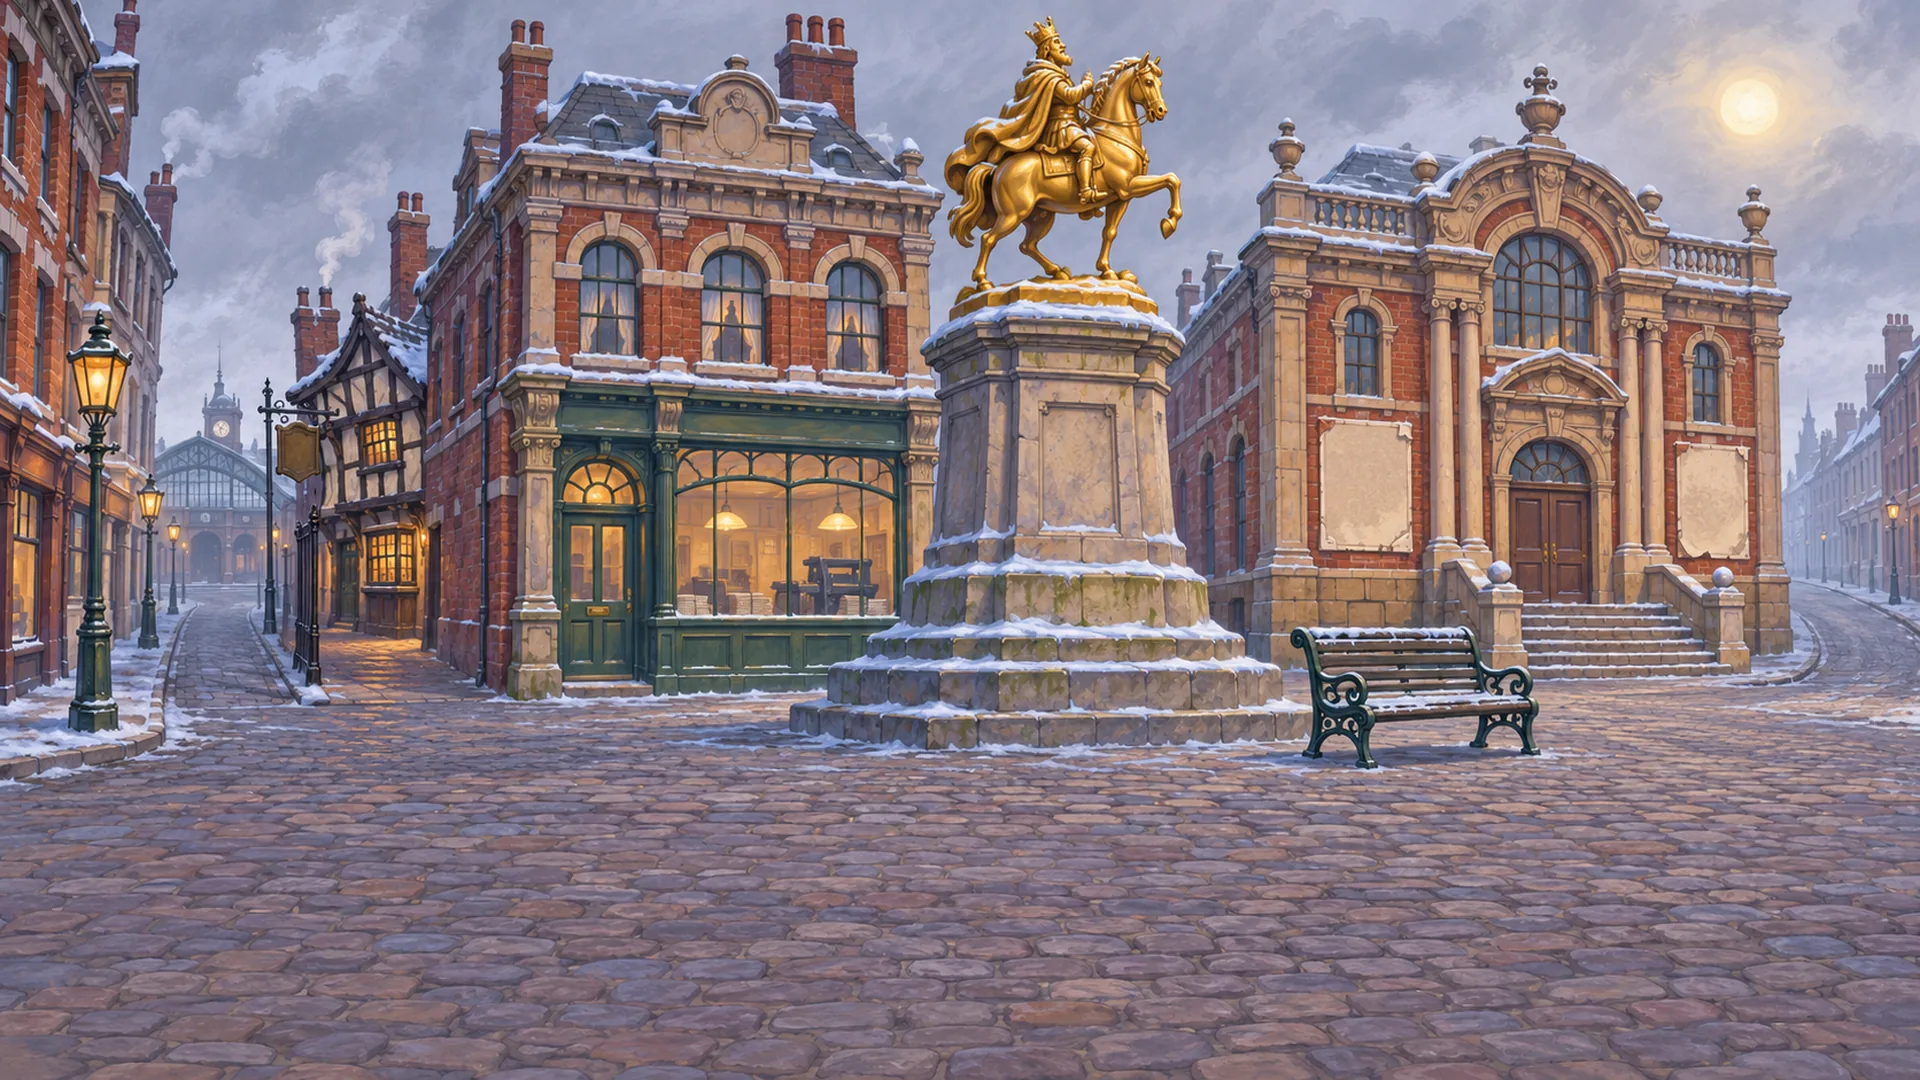
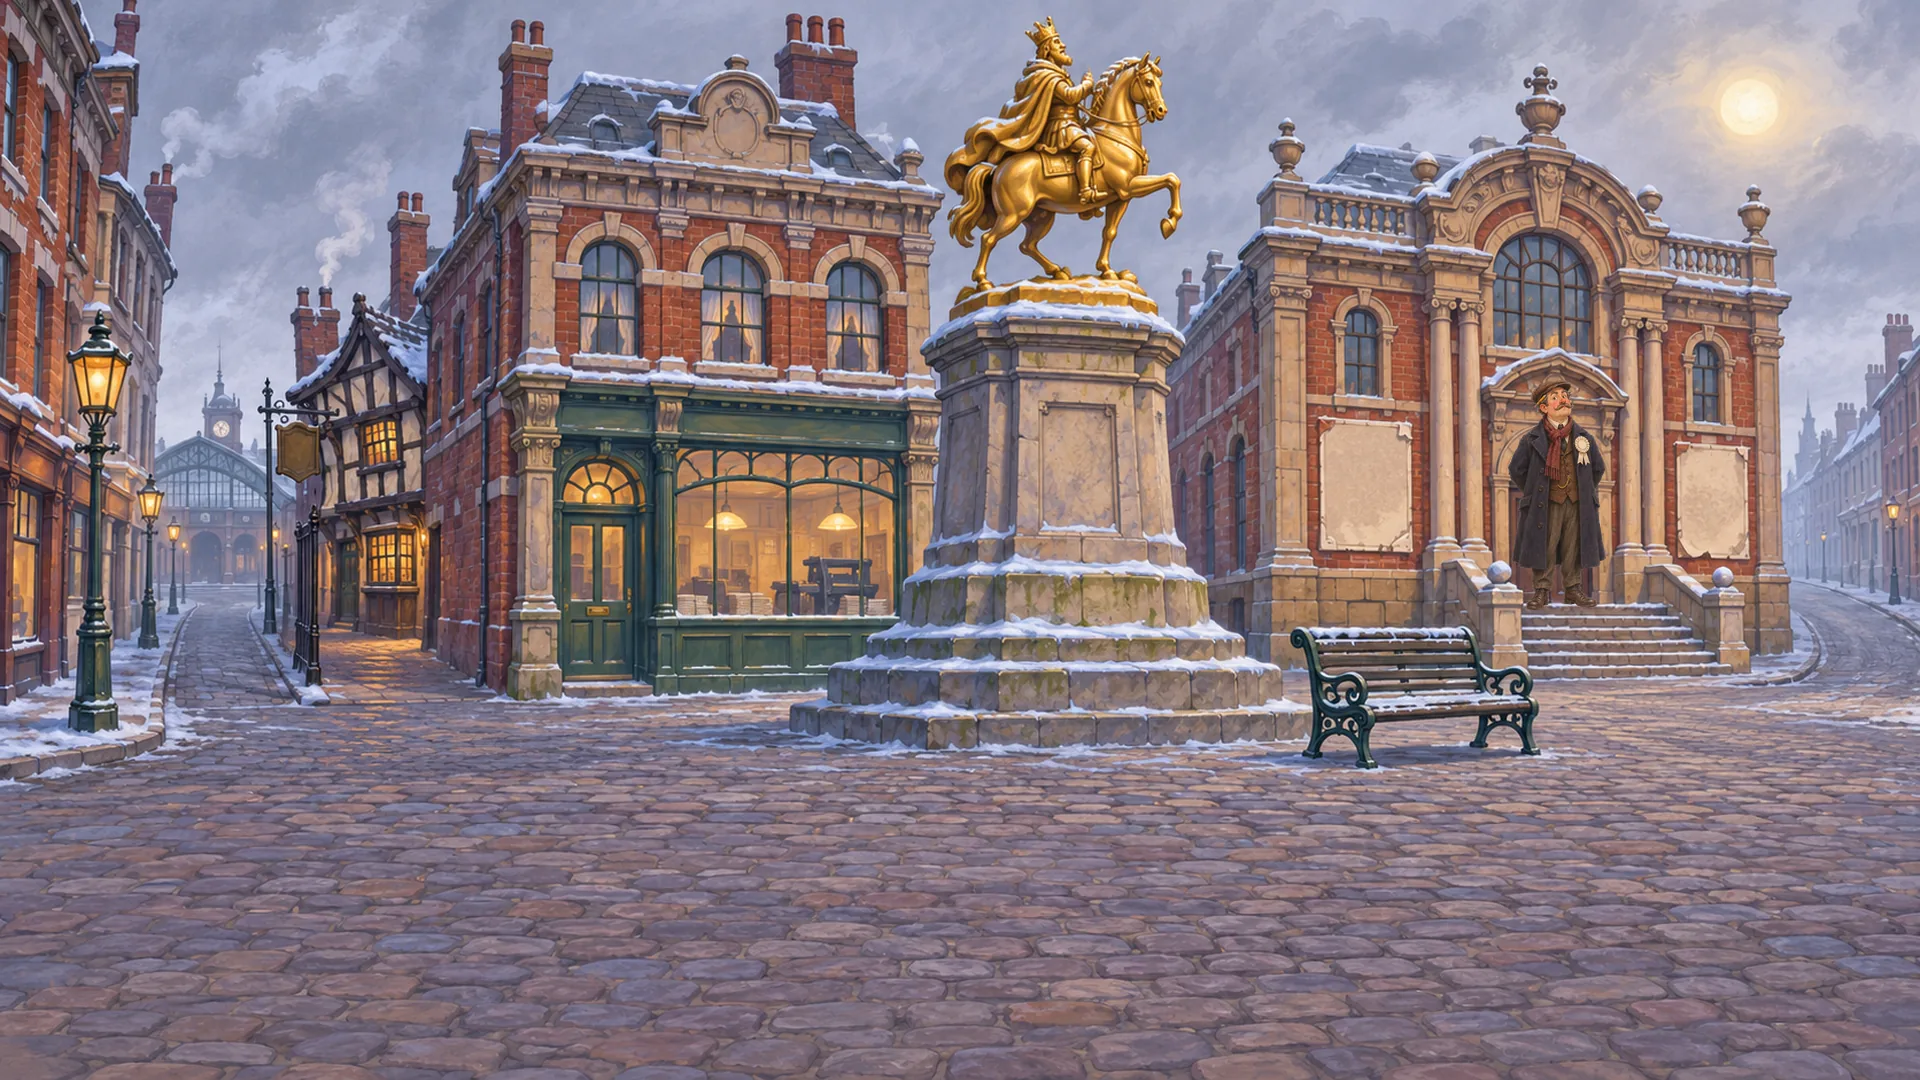
Three Brothers: Chapter 3 people and props
Adds Rob's 10 cut-outs for Chapter 3: 8 placed as sprites, scaled and
lined up with the paintings, and 2 who never move painted straight into
their backgrounds. Speech positions updated to match. The editor is the
one picture still to come.

Claude-Session: https://claude.ai/code/session_01HkYj1sXuKgB5KPCMdU7EVc

Changed region(s): [[0.7812, 0.3361, 0.8438, 0.5806]]

diff --git a/games/three-brothers/chapters/03-hull.ts b/games/three-brothers/chapters/03-hull.ts
@@ -114,13 +114,13 @@ export const hull: Chapter = {
     inventory: { rob: ['phone', 'dollies'] },
   },
   extras: {
-    reader: { name: 'Woman on the bench', colour: '#f08fb0', at: { x: 640, y: 200 } },
-    steward: { name: 'Steward', colour: '#f4d35e', at: { x: 850, y: 150 } },
-    landlord: { name: 'Landlord', colour: '#e8a33d', at: { x: 410, y: 150 } },
-    editor: { name: 'Editor', colour: '#7fb8d9', at: { x: 455, y: 150 } },
-    gateman: { name: 'Gateman', colour: '#a0d9a0', at: { x: 210, y: 130 } },
-    boy: { name: 'Boy', colour: '#f2cc2f', at: { x: 790, y: 230 } },
-    clerk: { name: 'Ticket clerk', colour: '#c9a0dc', at: { x: 265, y: 110 } },
+    reader: { name: 'Woman on the bench', colour: '#f08fb0', at: { x: 702, y: 247 } },
+    steward: { name: 'Steward', colour: '#f4d35e', at: { x: 778, y: 165 } },
+    landlord: { name: 'Landlord', colour: '#e8a33d', at: { x: 505, y: 230 } },
+    editor: { name: 'Editor', colour: '#7fb8d9', at: { x: 737, y: 190 } },
+    gateman: { name: 'Gateman', colour: '#a0d9a0', at: { x: 245, y: 227 } },
+    boy: { name: 'Boy', colour: '#f2cc2f', at: { x: 807, y: 273 } },
+    clerk: { name: 'Ticket clerk', colour: '#c9a0dc', at: { x: 276, y: 240 } },
     guard: { name: 'Guard', colour: '#c9bfae', at: { x: 760, y: 110 } },
   },
   intro: [
@@ -215,9 +215,9 @@ export const hull: Chapter = {
         { id: 'wreck', name: 'Wrecked soapbox', if: '!got_wreck', prop: 'soapbox', rect: { x: 260, y: 350, w: 120, h: 60 }, colour: '#7a5a3a', look: "My soapbox. What's left of it. We've been through a lot together, that box and me. Mostly council meetings." },
         { id: 'statue', name: 'King William statue', rect: { x: 465, y: 5, w: 175, h: 365 }, colour: '#d9b53a', look: 'King Billy, gilded from crown to hoof, on a golden horse. Somebody has polished him this morning. In January.' },
         { id: 'to_office', name: 'Hull Daily Mail office', exit: 'up', rect: { x: 265, y: 190, w: 200, h: 155 }, colour: '#4a4a5a', look: 'The offices of the Hull Daily Mail. A sign in the window: CORRESPONDENTS WANTED. Bring your own pencil.' },
-        { id: 'reader', name: 'Woman on the bench', if: '!got_book', sprite: 'reader.png', rect: { x: 665, y: 255, w: 75, h: 120 }, colour: '#7a3a5a', look: "A woman reading on a bench, in this cold, so gripped that she hasn't noticed her tea has gone cold. Dracula, the yellow cover. About two-thirds in. I'm trying very hard not to say anything." },
-        { id: 'bicycle', name: 'Bicycle', if: '!bike_moved', sprite: 'bicycle.png', rect: { x: 775, y: 325, w: 95, h: 65 }, colour: '#3f7a6a', look: 'A bicycle, parked across the whole pavement. Even in 1906.' },
-        { id: 'hall', name: 'Liberal hall', rect: { x: 600, y: 35, w: 300, h: 218 }, colour: '#a08a4a', look: 'The Liberal hall, with a poster: MR LLOYD GEORGE SPEAKS TONIGHT, 8 O\'CLOCK. A steward is guarding the door like it is the last seat on earth.' },
+        { id: 'reader', name: 'Woman on the bench', if: '!got_book', sprite: 'reader.png', rect: { x: 672, y: 272, w: 61, h: 110 }, colour: '#7a3a5a', look: "A woman reading on a bench, in this cold, so gripped that she hasn't noticed her tea has gone cold. Dracula, the yellow cover. About two-thirds in. I'm trying very hard not to say anything." },
+        { id: 'bicycle', name: 'Bicycle', if: '!bike_moved', sprite: 'bicycle.png', rect: { x: 770, y: 316, w: 125, h: 77 }, colour: '#3f7a6a', look: 'A bicycle, parked across the whole pavement. Even in 1906.' },
+        { id: 'hall', name: 'Liberal hall', rect: { x: 600, y: 35, w: 300, h: 235 }, colour: '#a08a4a', look: 'The Liberal hall, with a poster: MR LLOYD GEORGE SPEAKS TONIGHT, 8 O\'CLOCK. A steward is guarding the door like it is the last seat on earth.' },
         { id: 'to_boulevard', name: 'Hessle Road', exit: 'right', rect: { x: 895, y: 200, w: 65, h: 180 }, colour: '#8a8a70', look: 'The road out along Hessle Road, towards the football ground. You can hear the crowd from here.' },
       ],
       stand: { rob: [{ x: 560, y: 440 }] },
@@ -231,9 +231,9 @@ export const hull: Chapter = {
       hotspots: [
         { id: 'pub_door', name: 'Market Place', exit: 'left', rect: { x: 0, y: 120, w: 105, h: 290 }, colour: '#8a7a60', look: 'The way back out to the cold.' },
         { id: 'photo', name: 'Team photograph', rect: { x: 160, y: 128, w: 110, h: 100 }, colour: '#b0a080', look: 'Hull City, this season, arms folded. Names underneath, if anybody cares to read them out. I care to.' },
-        { id: 'landlord', name: 'Landlord', sprite: 'landlord.png', rect: { x: 470, y: 215, w: 72, h: 190 }, colour: '#5a3a2a', look: "The landlord, polishing a glass he hasn't got anything to put in." },
+        { id: 'landlord', name: 'Landlord', sprite: 'landlord.png', rect: { x: 460, y: 255, w: 89, h: 150 }, colour: '#5a3a2a', look: "The landlord, polishing a glass he hasn't got anything to put in." },
         { id: 'trapdoor', name: 'Trapdoor', if: '!trapdoor_open', rect: { x: 675, y: 340, w: 175, h: 78 }, colour: '#4a3a28', look: 'A trapdoor to the cellar. The iron ring has snapped clean off. All that\'s left is a hairline crack round the edge.' },
-        { id: 'to_cellar', name: 'Open trapdoor', exit: 'down', if: 'trapdoor_open', sprite: 'trapdoor-open.png', rect: { x: 675, y: 340, w: 175, h: 78 }, colour: '#1a1410', look: 'Stone steps going down into the dark.' },
+        { id: 'to_cellar', name: 'Open trapdoor', exit: 'down', if: 'trapdoor_open', sprite: 'trapdoor-open.png', rect: { x: 675, y: 254, w: 279, h: 160 }, colour: '#1a1410', look: 'Stone steps going down into the dark.' },
         { id: 'parlour', name: 'Plotting Parlour', rect: { x: 805, y: 85, w: 150, h: 255 }, colour: '#6a4a3a', look: "A low door with a painted sign: THE PLOTTING PARLOUR. 1642. I stand up straight to read it. In here, that's a mistake." },
       ],
       stand: { rob: [{ x: 300, y: 440 }] },
@@ -248,7 +248,7 @@ export const hull: Chapter = {
         { id: 'dark', name: 'The dark', if: '!lit', sprite: 'cellar-dark.png', rect: { x: 150, y: 0, w: 810, h: 456 }, colour: '#050404', look: "Black. Properly black. Like the inside of a goalkeeper's glove." },
         { id: 'barrel', name: 'Fallen barrel', if: 'lit !barrel_moved', sprite: 'cellar-barrel.webp', rect: { x: 205, y: 151, w: 368, h: 291 }, colour: '#6a4a2a', look: 'A full barrel of beer, off its rack and lying right across the floor. Eighteen gallons. You could get it back up there with a block and tackle and three men.' },
         { id: 'racks', name: 'Barrel racks', if: 'lit', rect: { x: 645, y: 60, w: 280, h: 300 }, colour: '#5a4030', look: 'Racks of barrels, all full, all out of reach of a thirsty town. Well. Out of reach of most people.' },
-        { id: 'cat', name: 'Cat', if: 'lit', sprite: 'hull-cat.png', rect: { x: 845, y: 228, w: 62, h: 70 }, colour: '#222222', look: 'A large black cat, sitting on an empty barrel, looking at me as if I owe it money.' },
+        { id: 'cat', name: 'Cat', if: 'lit', sprite: 'hull-cat.png', rect: { x: 867, y: 234, w: 36, h: 62 }, colour: '#222222', look: 'A large black cat, sitting on an empty barrel, looking at me as if I owe it money.' },
         { id: 'cobwebs', name: 'Cobwebs', if: 'lit', rect: { x: 120, y: 0, w: 210, h: 150 }, colour: '#7a7a7a', look: 'Cobwebs. A lot of them. Some of them are older than the pub.' },
       ],
       stand: { rob: [{ x: 220, y: 440 }] },
@@ -274,10 +274,10 @@ export const hull: Chapter = {
       placeholder: { top: '#8aa0b0', bottom: '#5a5048' },
       hotspots: [
         { id: 'boulevard_back', name: 'Market Place', exit: 'left', rect: { x: 0, y: 200, w: 105, h: 200 }, colour: '#8a8a70', look: 'Back to the Market Place.' },
-        { id: 'gateman', name: 'Gateman', sprite: 'gateman.png', rect: { x: 200, y: 180, w: 90, h: 210 }, colour: '#3a5a3a', look: "A gateman with a cash box and a face that's heard every excuse." },
+        { id: 'gateman', name: 'Gateman', sprite: 'gateman.png', rect: { x: 214, y: 252, w: 61, h: 140 }, colour: '#3a5a3a', look: "A gateman with a cash box and a face that's heard every excuse." },
         { id: 'wall', name: 'Wall', rect: { x: 340, y: 190, w: 530, h: 180 }, colour: '#8a4a3a', look: 'A brick wall, about six foot high, with broken glass set all along the top. On the other side, the match. You can hear every tackle.' },
-        { id: 'plank_on_wall', name: 'Plank on the wall', if: 'plank_on_wall', sprite: 'plank.png', rect: { x: 440, y: 196, w: 180, h: 22 }, colour: '#a07a4a', look: 'My good plank, laid along the glass on top of the wall.' },
-        { id: 'boy', name: 'Boy', sprite: 'boy.png', rect: { x: 780, y: 270, w: 55, h: 125 }, colour: '#6a5a2a', look: 'A small boy with a scarf, scraped knees and the air of someone who knows everything about everything.' },
+        { id: 'plank_on_wall', name: 'Plank on the wall', if: 'plank_on_wall', sprite: 'plank.png', rect: { x: 420, y: 190, w: 230, h: 19 }, colour: '#a07a4a', look: 'My good plank, laid along the glass on top of the wall.' },
+        { id: 'boy', name: 'Boy', sprite: 'boy.png', rect: { x: 789, y: 298, w: 36, h: 98 }, colour: '#6a5a2a', look: 'A small boy with a scarf, scraped knees and the air of someone who knows everything about everything.' },
       ],
       stand: { rob: [{ x: 560, y: 440 }] },
     },

diff --git a/docs/three-brothers/art-style.md b/docs/three-brothers/art-style.md
@@ -36,14 +36,14 @@ Add the scene description under the master prompt. Spell out the layout (what go
   - **`goodmanham-river.webp`:** a slow, quiet river between reeds and willows. Far left: a muddy track leading up out of frame. Left: a big weeping willow trailing into the water. Centre: the river running across the middle of the picture, with a tall plain wooden cross stuck in the near bank. Right: tall reed beds, with a grey heron standing among them. Grassy, muddy riverbank along the bottom third.
   - **People and animals, as separate cut-outs** (same chat, full body, plain light grey background, like the brothers, in Anglo-Saxon dress of the 600s): a thin young shepherd lad holding a crook, with a sling tucked in his belt (`ecca.png`); an old wise woman in a dark hooded cloak with bright eyes and bone charms (`gytha.png`); a black cat, curled up (`cat.png`); a huge bearded door-ward leaning on an axe (`wulf.png`); a big red-faced cook with forearms like hams (`cook.png`); a wiry groom with straw in his hair (`groom.png`); King Edwin, seated, gold arm rings and a gold belt (`edwin.png`); Queen Æthelburh, holding a big gold cup (`queen.png`); a white-bearded old counsellor with a drinking horn (`osric.png`); Coifi, a pagan high priest in plain robes, unarmed (`coifi.png`); Paulinus, a tall, thin Roman missionary with a hooked nose, in dark robes, wet to the knee (`paulinus.png`); a big black stallion (`stallion.png`); a small grey mare (`mare.png`). Until a cut-out exists, the game draws a labelled box where that person or animal stands.
 
-- **Chapter 3, Hull, January 1906 (backgrounds done, by Rob in ChatGPT; people and props to do).** Six backgrounds, a freezing grey winter day, low pale sun, breath in the air. Each prompt describes the scene as Rob first finds it. No people, no text, all signs blank.
+- **Chapter 3, Hull, January 1906 (done by Rob in ChatGPT, except the editor).** Six backgrounds, a freezing grey winter day, low pale sun, breath in the air. Each prompt describes the scene as Rob first finds it. No people, no text, all signs blank.
   - **`hull-market.webp`:** Hull's old Market Place. Far left: a street leading off towards a railway station. Left: a narrow alley with a crooked old timber-framed pub at the end of it. Centre, high up: a gilded statue of a king on a golden horse on a tall plinth. Centre, below it: a newspaper office with a big plate-glass window. Centre-right: an empty iron bench. Right: a public hall with blank posters on its walls and steps up to the door. Far right: a road leading away out of town. Cobbles along the bottom third.
   - **`hull-pub.webp`:** inside a very old, crooked pub: low black beams, a low doorway, a small fire. Far left: the door out. Left, on the wall: a framed photograph of a football team, too small to read. Centre: a bar with beer pumps. Right of the bar, in the floorboards: a wooden trapdoor with no ring. Far right: a low door to a back room with a blank painted sign above it. Floorboards along the bottom.
   - **`hull-cellar.webp`:** a stone pub cellar, seen in the glow of one light. Far left: stone steps going up. Centre: one big wooden beer barrel lying on its side across the floor. Right: wooden racks of barrels against the wall. Top left: heavy cobwebs. Far right, low down: an empty barrel. Stone floor along the bottom. (The game covers it in darkness at first.)
   - **`hull-office.webp`:** an Edwardian newsroom, smoky and lamplit. Far left: the door out. Left of centre: a metal spike on a desk, stacked with paper. Centre: a big desk with a green lamp and piles of copy, and an empty chair. Right: a wide internal window onto big printing presses. Wooden floor along the bottom.
   - **`hull-boulevard.webp`:** outside an early football ground in winter. Far left: the road back to town. Left: a wooden turnstile gate in the wall. Centre and right: a long brick wall about head height, with broken glass set along the top, and the tops of a crowded stand visible beyond it. Far right: a lamp post. Pavement along the bottom third.
   - **`hull-station.webp`:** a huge arched Edwardian railway station roof, full of steam and pale light. Far left: the way out. Left: a ticket window with a brass grille. Centre: a big board of fares with blank lettering. Right: a big green steam engine and carriages at the platform. Platform along the bottom third.
-  - Claude touched up one background so it fits the game, and cut 2 overlays from it. The people and props below are already wired up in the chapter, showing as labelled boxes until their pictures land in `art/`.
+  - Claude touched up one background so it fits the game, and cut 2 overlays from it. The people and props below are in, except `editor.png`, which shows as a labelled box until it lands in `art/`. The steward and the clerk never move, so they're painted into their backgrounds rather than drawn as separate pictures.
   - **People, as separate cut-outs** (full body, plain light grey background, like the brothers, in Edwardian winter clothes): a woman in a shawl and hat sitting reading a yellow book (`reader.png`); a gruff pub landlord in an apron (`landlord.png`); a newspaper editor in shirtsleeves and waistcoat with a pencil (`editor.png`); a gateman with a cash box (`gateman.png`); a small boy in a big cap and scarf (`boy.png`); a steward with a rosette and a pencil behind his ear (`steward.png`); a railway ticket clerk in a cap (`clerk.png`); a large black cat sitting (`hull-cat.png`).
   - **Props** (plain light grey background): a black bicycle leaning (`bicycle.png`); a wooden plank (`plank.png`); an open trapdoor showing steps going down (`trapdoor-open.png`).
 - **Painted props (done, from Rob):** Rob's soapbox (prologue), the newspaper net (Chapter 1), and a handful of Chapter 2 props and a sparrow in two wing positions. Where a painted thing changes state, Rob made edits of the background with only that thing changed, and Claude crops it in as a sprite. A sprite or `art/` picture always wins over the code-drawn version, which stays as the fallback.
